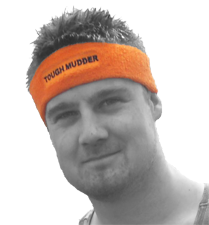
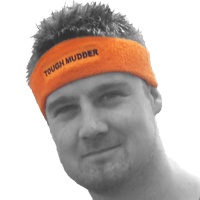
Add styling, text, accessibility and imagery tweaks

Changed region(s): [[0.12, 0.0, 0.81, 1.0], [0.75, 0.78, 1.0, 1.0]]

diff --git a/src/pages/about.js b/src/pages/about.js
@@ -11,17 +11,17 @@ const About = () => (
     <PageTitle>About</PageTitle>
     <p>
       I really love what I do and consider it a creative passion. It's helped me
-      build a good set of professional and personal skills such as having a very
-      good eye for detail (pixel perfect), can balance creative designs while
-      maintaining good user usability, managing my projects
+      build a great set of professional and personal skills such as having a
+      very good eye for detail (pixel perfect), can balance creative designs
+      while maintaining good user usability, managing my projects
       accurately/efficiently and I'm also very easy to get along with.
     </p>
     <p>
-      I have also had the chance to work with many different types of companies
-      and teams such as start-ups, agencies and large enterprises. This has
-      allowed me to gain a deep familiarity with the full project life cycle
-      involving design, wireframes, POC's and MVP's to delivering
-      international/localised websites and applications.
+      I have had the chance to work with many different types of companies and
+      teams such as start-ups, agencies and larger enterprises. This has allowed
+      me to gain a deep familiarity with the full project life cycle involving
+      design, wireframes, POC's and MVP's to delivering international/localised
+      websites and applications.
     </p>
     <h2>
       <span>"</span>The very substance of the ambitious is merely the shadow of
@@ -35,16 +35,17 @@ const About = () => (
       meetings, attending events, sharing ideas and knowledge sharing.
     </p>
     <p>
-      I've recently been working on the redesign project at the{' '}
+      I'm currently working at{' '}
       <a
-        href="https://www.roh.org.uk/"
+        href="https://www.which.co.uk/"
         target="_blank"
         rel="noopener noreferrer"
       >
-        Royal Opera House
+        Which?
       </a>{' '}
-      and I've worked with other great companies in the past, which you can find{' '}
-      <Link to="/portfolio">examples of here</Link>.
+      leading front end development within my squad whilst also helping in other
+      projects and BAU tasks. I've also worked with other great companies in the
+      past, which you can find <Link to="/portfolio">examples of here</Link>.
     </p>
   </Layout>
 );

diff --git a/src/templates/portfolio-graphql.js b/src/templates/portfolio-graphql.js
@@ -7,7 +7,7 @@ import Seo from '../components/Seo';
 import PortfolioItem from '../components/PortfolioItem';
 
 export const query = graphql`
-  query($slug: String!) {
+  query ($slug: String!) {
     portfolioJson(slug: { eq: $slug }) {
       title
       intro
@@ -34,23 +34,33 @@ const portfolio = ({ data }) => {
       <Seo title={`Portfolio | ${portfolio.title}`} />
       <PageTitle>{portfolio.title}</PageTitle>
       <p>{portfolio.intro}</p>
-      <h3>Software, skills & technology I used</h3>
-      <SkillList>
-        {portfolio.skills.map((skill) => (
-          <Skill key={skill}>{skill}</Skill>
-        ))}
-      </SkillList>
-      <h3>What I worked on</h3>
-      <Container>
-        {portfolio.projects.map((project) => (
-          <PortfolioItem
-            key={project.id}
-            url={project.url}
-            name={project.name}
-            image={project.image}
-          />
-        ))}
-      </Container>
+
+      {portfolio.skills.length > 0 && (
+        <>
+          <h3>Software, skills & technology I used</h3>
+          <SkillList>
+            {portfolio.skills.map((skill) => (
+              <Skill key={skill}>{skill}</Skill>
+            ))}
+          </SkillList>
+        </>
+      )}
+
+      {portfolio.projects.length > 0 && (
+        <>
+          <h3>What I worked on</h3>
+          <Container>
+            {portfolio.projects.map((project) => (
+              <PortfolioItem
+                image={project.image}
+                key={project.id}
+                name={project.name}
+                url={project.url}
+              />
+            ))}
+          </Container>
+        </>
+      )}
     </Layout>
   );
 };

diff --git a/src/styles/shared.ts b/src/styles/shared.ts
@@ -6,12 +6,12 @@ export const Container = styled.div`
   display: flex;
   flex-wrap: wrap;
   justify-content: space-between;
-  margin-top: 20px;
   text-align: center;
 `;
 
 export const Intro = styled.h1`
-  font-size: 1.5rem;
+  font-size: 1.4rem;
+  line-height: 1.3;
   text-align: center;
 
   @media (min-width: 992px) {
@@ -20,6 +20,7 @@ export const Intro = styled.h1`
 `;
 
 export const Title = styled.div`
+  color: ${colors.emperor};
   font-size: 1.5rem;
   opacity: 1;
   padding: 10px 0;
@@ -70,6 +71,7 @@ export const Wrapper = styled.div`
     }
 
     ${Title} {
+      color: ${colors.internationalOrange};
       opacity: 1;
     }
   }
@@ -79,7 +81,7 @@ export const SkillList = styled.ul`
   display: flex;
   flex-wrap: wrap;
   list-style: none;
-  margin: 0;
+  margin: 0 0 20px;
   padding: 0;
 `;
 
@@ -89,7 +91,7 @@ export const Skill = styled.li`
   color: #fff;
   cursor: default;
   display: inline;
-  font-size: 1.1rem;
+  font-size: 1.125rem;
   margin: 0 10px 10px 0;
   padding: 7px;
   transition: color 1s ease-out, background 1s ease-out;
@@ -103,9 +105,9 @@ export const Skill = styled.li`
 export const StyledImg = styled(GatsbyImage)`
   border-radius: 50%;
   display: block;
-  height: 225px;
+  height: 200px;
   margin: 0 auto 20px;
-  width: 209px;
+  width: 200px;
 
   @media (min-width: 992px) {
     margin: 0 auto 50px;

diff --git a/src/styles/layout.ts b/src/styles/layout.ts
@@ -16,7 +16,7 @@ export const GlobalStyle = createGlobalStyle`
     box-sizing: border-box;
     font-family: 'Marmelad', sans-serif;
     font-size: 16px;
-    line-height: 1.15;
+    line-height: 1.4;
     margin: 0;
   }
 
@@ -37,7 +37,7 @@ export const GlobalStyle = createGlobalStyle`
 
   h2 {
     font-size: 1.75rem;
-    margin: 40px 0;
+    margin: 20px 0 40px;
     padding: 0;
     text-align: center;
   }
@@ -46,7 +46,7 @@ export const GlobalStyle = createGlobalStyle`
     border-bottom: 1px solid rgba(0, 0, 0, 0.15);
     color: ${colors.internationalOrange};
     font-size: 1.5rem;
-    margin: 30px 0 20px;
+    margin: 10px 0 20px;
     padding: 0 0 5px;
   }
 

diff --git a/src/pages/404.js b/src/pages/404.js
@@ -1,5 +1,5 @@
 import React from 'react';
-import { graphql } from 'gatsby';
+import { graphql, Link } from 'gatsby';
 import { getImage } from 'gatsby-plugin-image';
 import { PageTitle, StyledImg } from '../styles/shared';
 
@@ -24,7 +24,10 @@ const NotFoundPage = ({ data }) => {
       <Seo title="404: Not found" />
       <PageTitle>404: Not found</PageTitle>
       <p>You just hit a route that doesn&#39;t exist... the sadness.</p>
-      <StyledImg alt="Michael Whittet" image={image} />
+      <p>
+        Go back to the <Link to="/">home</Link> page?
+      </p>
+      <StyledImg alt="404 facepalm" image={image} />
     </Layout>
   );
 };

diff --git a/src/components/Layout/styled.ts b/src/components/Layout/styled.ts
@@ -32,12 +32,14 @@ export const MainWrapper = styled.main`
 
   p {
     color: ${colors.emperor};
-    font-size: 1.1rem;
-    margin-bottom: 15px;
+    font-size: 1.125rem;
+    margin-bottom: 20px;
 
     a {
-      color: ${colors.internationalOrange};
+      color: ${colors.emperor};
+      font-weight: bold;
       text-decoration: underline;
+      text-decoration-color: ${colors.internationalOrange};
 
       &:hover {
         text-decoration: none;

diff --git a/src/pages/index.js b/src/pages/index.js
@@ -23,7 +23,7 @@ const IndexPage = ({ data }) => {
     <Layout className="home">
       <Seo title="Front End Developer" />
       <HomeWrapper>
-        <StyledImg alt="Michael Whittet" image={image} />
+        <StyledImg alt="" image={image} />
         <Intro>
           <span>Hello!</span> I'm <span>Michael Whittet</span> aka Mike, Bruce,
           Buzz, Spike, Goo, Whittet (those are some of my nicknames!) &amp; I am

diff --git a/src/pages/contact.js b/src/pages/contact.js
@@ -14,7 +14,7 @@ const Contact = () => (
     <p>
       If you wish to contact me about a freelance project or just fancy a chat,
       feel free to fill out the contact form below or reach out via one of the
-      social hubs found in the footer:
+      social hubs found in the footer.
     </p>
     <Form recaptcha={RECAPTCHA_KEY} />
     <h2>

diff --git a/src/components/PortfolioItem/Content/Content.tsx b/src/components/PortfolioItem/Content/Content.tsx
@@ -5,7 +5,7 @@ import { ContentItem } from '../../../types';
 
 const Content = ({ image, name }: ContentItem): React.ReactElement => (
   <>
-    <GatsbyImage alt={name} image={getImage(image)} />
+    <GatsbyImage alt="" image={getImage(image)} />
     <Title>{name}</Title>
   </>
 );

diff --git a/gatsby-config.js b/gatsby-config.js
@@ -34,6 +34,9 @@ module.exports = {
         theme_color: `#000000`,
         display: `standalone`,
         icon: `src/images/icon.png`,
+        icon_options: {
+          purpose: `any maskable`,
+        },
       },
     },
     `gatsby-plugin-typescript`,

diff --git a/src/components/Form/styled.ts b/src/components/Form/styled.ts
@@ -2,7 +2,7 @@ import styled, { css } from 'styled-components';
 import colors from '../../styles/colors';
 
 export const FormWrapper = styled.form`
-  margin: 25px auto 0;
+  margin: 10px auto 0;
   width: 100%;
 
   @media (min-width: 992px) {

diff --git a/src/components/Social/styled.ts b/src/components/Social/styled.ts
@@ -3,7 +3,7 @@ import styled from 'styled-components';
 export const NavWrapper = styled.nav`
   display: flex;
   justify-content: center;
-  padding: 0 0 20px;
+  padding: 0 0 15px;
 `;
 
 export const Link = styled.a`
